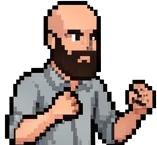
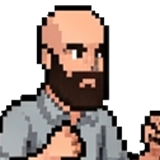
fix: Gerar retratos/bustos perfeitos dos novos sprites e corrigir travamento de transicao de cena

diff --git a/src/scenes/CharacterSelectScene.js b/src/scenes/CharacterSelectScene.js
@@ -18,6 +18,7 @@ export class CharacterSelectScene extends Phaser.Scene {
         this.oppProfessorId = this.playerId === 'p1' ? 'web' : 'so';
         this.isLockedIn = false;
         this.hasStarted = false;
+        this.isStartingMatch = false;
         this.cards = [];
         this.countdownTargetTime = null;
         this.isCountingDown = false;
@@ -323,11 +324,8 @@ export class CharacterSelectScene extends Phaser.Scene {
                 .setStrokeStyle(1.5, 0x334155)
                 .setInteractive({ useHandCursor: true });
 
-            // Avatar do Professor
-            const maskShape = this.add.graphics();
-            maskShape.fillRect(x - 47, cardY - 37, 94, 74);
-            const portrait = this.add.sprite(0, 20, prof.atlasKey, 'idle').setScale(0.42);
-            portrait.setMask(maskShape.createGeometryMask());
+            // Avatar do Professor (Retrato recortado)
+            const portrait = this.add.image(0, -8, prof.portraitKey).setDisplaySize(48, 48);
 
             // Nome Curto
             const nameText = this.add.text(0, 24, prof.shortName.toUpperCase(), { 
@@ -724,8 +722,8 @@ export class CharacterSelectScene extends Phaser.Scene {
     }
 
     forceStartMatch() {
-        if (this.hasStarted) return;
-        this.hasStarted = true;
+        if (this.hasStarted || this.isStartingMatch) return;
+        this.isStartingMatch = true;
 
         logEvent('game', `[Sala ${this.roomId}] Forçando início de partida solo.`);
 
@@ -762,6 +760,7 @@ export class CharacterSelectScene extends Phaser.Scene {
     startGame() {
         if (this.hasStarted) return;
         this.hasStarted = true;
+        this.isStartingMatch = true;
 
         logEvent('game', `[Sala ${this.roomId}] Batalha iniciada! Carregando arena...`);
 
@@ -811,8 +810,8 @@ export class CharacterSelectScene extends Phaser.Scene {
                 }
                 if (this.btnCancel) this.btnCancel.setVisible(false);
 
-                if (this.playerId === 'p1' && !this.hasStarted) {
-                    this.hasStarted = true;
+                if (this.playerId === 'p1' && !this.isStartingMatch) {
+                    this.isStartingMatch = true;
                     const randomQ = questions[Math.floor(Math.random() * questions.length)];
                     const roomRef = ref(db, `rooms/${this.roomId}`);
 
@@ -840,8 +839,9 @@ export class CharacterSelectScene extends Phaser.Scene {
                         console.error(e);
                         this.startGame();
                     });
-                } else if (this.playerId === 'p2' && !this.hasStarted) {
-                    this.time.delayedCall(400, () => {
+                } else if (this.playerId === 'p2' && !this.isStartingMatch) {
+                    this.isStartingMatch = true;
+                    this.time.delayedCall(800, () => {
                         if (!this.hasStarted) this.startGame();
                     });
                 }

diff --git a/src/scenes/MainScene.js b/src/scenes/MainScene.js
@@ -118,10 +118,7 @@ export class MainScene extends Phaser.Scene {
         
         // Avatar / Retrato do Professor P1 (Esquerda do Card)
         this.p1PortraitFrame = this.add.rectangle(56, 94, 66, 66, 0x020617).setStrokeStyle(1.5, 0x10b981);
-        const maskShapeP1 = this.add.graphics();
-        maskShapeP1.fillRect(56 - 33, 94 - 33, 66, 66);
-        this.p1Portrait = this.add.sprite(56, 114, getProfessorById(this.p1Data?.characterId || 'so').atlasKey, 'idle').setScale(0.40);
-        this.p1Portrait.setMask(maskShapeP1.createGeometryMask());
+        this.p1Portrait = this.add.image(56, 94, getProfessorById(this.p1Data?.characterId || 'so').portraitKey).setDisplaySize(58, 58);
 
         // Linha 1: Nickname, Disciplina e HP Numérico (y = 68)
         this.p1NickText = this.add.text(98, 68, 'JOGADOR 1', { 
@@ -171,10 +168,7 @@ export class MainScene extends Phaser.Scene {
 
         // Avatar / Retrato do Professor P2 (Direita do Card, espelhado)
         this.p2PortraitFrame = this.add.rectangle(968, 94, 66, 66, 0x020617).setStrokeStyle(1.5, 0xef4444);
-        const maskShapeP2 = this.add.graphics();
-        maskShapeP2.fillRect(968 - 33, 94 - 33, 66, 66);
-        this.p2Portrait = this.add.sprite(968, 114, getProfessorById(this.p2Data?.characterId || 'web').atlasKey, 'idle').setScale(0.40).setFlipX(true);
-        this.p2Portrait.setMask(maskShapeP2.createGeometryMask());
+        this.p2Portrait = this.add.image(968, 94, getProfessorById(this.p2Data?.characterId || 'web').portraitKey).setDisplaySize(58, 58).setFlipX(true);
 
         // Linha 1: HP Numérico, Disciplina e Nickname (y = 68)
         this.p2HpText = this.add.text(570, 68, '100 HP', {
@@ -1322,8 +1316,9 @@ export class MainScene extends Phaser.Scene {
             if (this.fighterP1Sprite) this.fighterP1Sprite.setTexture(p1Prof.atlasKey, 'idle');
             
             // Retrato do Professor P1 no Card
-            if (this.p1Portrait && true) {
-                this.p1Portrait.setTexture(p1Prof.atlasKey, 'idle');
+            if (this.p1Portrait) {
+                this.p1Portrait.setTexture(p1Prof.portraitKey);
+                this.p1Portrait.setDisplaySize(58, 58);
             }
 
             // Nickname e Disciplina P1
@@ -1407,8 +1402,9 @@ export class MainScene extends Phaser.Scene {
             if (this.fighterP2Sprite) this.fighterP2Sprite.setTexture(p2Prof.atlasKey, 'idle');
             
             // Retrato do Professor P2 no Card
-            if (this.p2Portrait && true) {
-                this.p2Portrait.setTexture(p2Prof.atlasKey, 'idle');
+            if (this.p2Portrait) {
+                this.p2Portrait.setTexture(p2Prof.portraitKey);
+                this.p2Portrait.setDisplaySize(58, 58);
             }
 
             // Nickname e Disciplina P2
